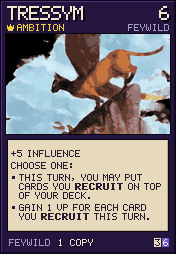
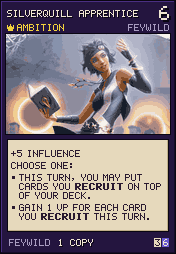
Stage NE-26b: FEYWILD - 15 white-background arts replaced with scene arts (owner)
- new creatures: High Fae Kindguard/Noble/Mage/Impostor, Lorehold/Silverquill/Witherbloom/Quandrix Apprentice,
  Satyr Thornbearer, Witchkite, Modron Monodrone, Icewind Kobold, Yeti Tyke, Pixie Wonderbringer, Ogre Chitterlord
- same ids and rules; tools/new_era/art_bgcheck.gd tells scene arts (BG) from cut-outs (CUT)

diff --git a/Claude outputs/new_era_bandle.md b/Claude outputs/new_era_bandle.md
@@ -40,48 +40,48 @@
 ## NE-26 (2026-10-17): Bandle City → FEYWILD (wip)
 - Владелец: 2014-арты можно; **Rumble и Lulu убраны, вместо них Norra** (Extra Champions). Колода — все карты мода: **21 уникальная, 44 копии**. Урезать до 40/20 — по слову владельца (лист `Claude outputs/feywild_cards_all.png`).
 - Ключ `bandle`, тип `FEYWILD`, id 49900–49922 (49907 свободен), `wip` (кнопка FEYWILD в NEW ERA, фон — зелёный луг). Эффекты `core/cards/bandle_cards.gd`, тест `test_feywild_deck`.
-- Арты: в списке поиска D&D Beyond (`.monster-icon a[href]`) есть полный арт даже у монстров из платных книг — так взяты феи и гномы. Почти все на белом фоне (стиль 2014), со сценой: Faerie Pathlighter, Faerie Pest, Faerie Borrower, оба Faerie Dragon, Leprechaun, Smoke Mephit, Goblin Hexer. Кандидаты — `cards/bandle/cand/` (не в git).
+- Арты: в списке поиска D&D Beyond (`.monster-icon a[href]`) есть полный арт даже у монстров из платных книг. **Владелец: персонажей на белом фоне — заменить** (2026-10-17) — теперь все 22 арта со сценой: феи Эльдрейна (High Fae, Faerie), ученики Стриксхейвена (Lorehold, Silverquill, Witherbloom, Quandrix Apprentice) и др. Фон проверяет `tools/new_era/art_bgcheck.gd` (DIR=папка: BG — сцена, CUT — белый/прозрачный край). Кандидаты — `cards/bandle/cand*` (не в git).
 
 | id | Существо | Карта мода | Копий |
 |---|---|---|---|
-| 49900 | Quickling | Teemo | 1 |
-| 49901 | Darkling | Kennen | 1 |
-| 49902 | Kobold Inventor | Tristana | 1 |
-| 49903 | Rock Gnome Recluse | Ziggs | 1 |
-| 49904 | Tressym | Yuumi | 1 |
+| 49900 | Satyr Thornbearer | Teemo | 1 |
+| 49901 | High Fae Kindguard | Kennen | 1 |
+| 49902 | High Fae Noble | Tristana | 1 |
+| 49903 | Lorehold Apprentice | Ziggs | 1 |
+| 49904 | Silverquill Apprentice | Yuumi | 1 |
 | 49905 | Faerie Pathlighter | Norra | 1 |
 | 49906 | Faerie Dragon Youth | Gnar | 1 |
-| 49908 | Nilbog | Veigar | 1 |
-| 49909 | Korred | Corki | 1 |
-| 49910 | Grung | Bandle Gunners | 4 |
-| 49911 | Darkling Elder | Realm Caretaker | 4 |
-| 49912 | Deep Gnome | Yordle Explorer | 4 |
+| 49908 | Witherbloom Apprentice | Veigar | 1 |
+| 49909 | Witchkite | Corki | 1 |
+| 49910 | Modron Monodrone | Bandle Gunners | 4 |
+| 49911 | High Fae Mage | Realm Caretaker | 4 |
+| 49912 | Icewind Kobold | Yordle Explorer | 4 |
 | 49913 | Leprechaun | Bandle City Mayor | 2 |
 | 49914 | Faerie Pest | Bandle Painter | 2 |
-| 49915 | Boggle | Banana Blaster | 3 |
-| 49916 | Redcap | Swole Scout | 3 |
+| 49915 | Quandrix Apprentice | Banana Blaster | 3 |
+| 49916 | Yeti Tyke | Swole Scout | 3 |
 | 49917 | Faerie Borrower | Arena Kingpin | 3 |
-| 49918 | Meenlock | Carved Bladetwirler | 3 |
-| 49919 | Smoke Mephit | Tornado Warrior | 3 |
-| 49920 | Xvart | Yordle Captain | 2 |
+| 49918 | High Fae Impostor | Carved Bladetwirler | 3 |
+| 49919 | Pixie Wonderbringer | Tornado Warrior | 3 |
+| 49920 | Ogre Chitterlord | Yordle Captain | 2 |
 | 49921 | Goblin Hexer | Portal Scholar | 2 |
 | 49922 | Faerie Dragon Adult | Mega Gnar (не в рынке) | — |
 
 ### Толкования
-- **Glamour:** после основного эффекта вопрос «Glamour: spend 1 VP?» со списком Glamour-способностей карты и вариантом «No Glamour». Без VP-жетонов вопроса нет. У Leprechaun и Smoke Mephit Glamour стоит рядом с основным эффектом («instead»). Жетон уходит в общий запас.
+- **Glamour:** после основного эффекта вопрос «Glamour: spend 1 VP?» со списком Glamour-способностей карты и вариантом «No Glamour». Без VP-жетонов вопроса нет. У Leprechaun и Pixie Wonderbringer Glamour стоит рядом с основным эффектом («instead»). Жетон уходит в общий запас.
 - **Execute** = Devour (как в Avernus). «Discard a card in the market» (Leprechaun) — карта уходит под низ колоды рынка, слот пополняется.
-- **Quickling (Teemo):** «слово spy» — в тексте есть spy или spies. Дополнительный шпион сам не даёт ещё одного.
-- **Kobold Inventor (Tristana):** «supplant instead» — после убийства вопрос «поставить своё войско на место убитого?». Работает и для базового действия.
+- **Satyr Thornbearer (Teemo):** «слово spy» — в тексте есть spy или spies. Дополнительный шпион сам не даёт ещё одного.
+- **High Fae Noble (Tristana):** «supplant instead» — после убийства вопрос «поставить своё войско на место убитого?». Работает и для базового действия.
 - **Faerie Dragon Youth (Gnar):** «gained 6 or more Power this turn» = Power сейчас + потраченная в этот ход (базовые действия). Проверка в момент розыгрыша.
-- **Tressym (Yuumi):** «+1 VP за каждую купленную в этот ход» — и за уже купленные, и за следующие. «На верх колоды» — вопрос после каждой покупки.
-- **Darkling Elder, Redcap:** «recruited 3+ cards this turn» и «gained control of a site this turn» проверяются в конце хода (контроль — сравнение с началом хода).
+- **Silverquill Apprentice (Yuumi):** «+1 VP за каждую купленную в этот ход» — и за уже купленные, и за следующие. «На верх колоды» — вопрос после каждой покупки.
+- **High Fae Mage, Yeti Tyke:** «recruited 3+ cards this turn» и «gained control of a site this turn» проверяются в конце хода (контроль — сравнение с началом хода).
 - **Faerie Pathlighter (Norra):** соперник выбирается, если их несколько; он сам ставит 3 жетона (`state.board_vp`, на доске — золотая монетка с ободком цвета хозяина). Хозяин забирает жетон, если у него в той локации есть войско: сразу после розыгрыша и в конце каждого своего хода. Жетоны, не забранные до конца партии, VP не дают.
-- **Nilbog (Veigar):** «every 3 troops in your trophy hall» — любые войска в трофейном зале.
+- **Witherbloom Apprentice (Veigar):** «every 3 troops in your trophy hall» — любые войска в трофейном зале.
 
 ### Чек-лист живой проверки
 1. NEW ERA → кнопка FEYWILD, на рынке карты с артами, фон зелёный.
-2. Xvart с VP-жетоном: вопрос Glamour, после «Glamour» — 1 VP меньше, в конце хода promote.
+2. Ogre Chitterlord с VP-жетоном: вопрос Glamour, после «Glamour» — 1 VP меньше, в конце хода promote.
 3. Faerie Pathlighter: соперник ставит 3 монетки на доске, ты ставишь туда войско — в конце хода +1 VP.
 4. Faerie Dragon Youth, когда за ход уже 4+ Power: в сбросе появляется Faerie Dragon Adult.
-5. Darkling: щелчок — «сыграть или удержать», при удержании +1 VP.
-6. Quickling, затем Boggle «Place a spy»: два шпиона и +1 VP.
+5. High Fae Kindguard: щелчок — «сыграть или удержать», при удержании +1 VP.
+6. Satyr Thornbearer, затем Quandrix Apprentice «Place a spy»: два шпиона и +1 VP.
